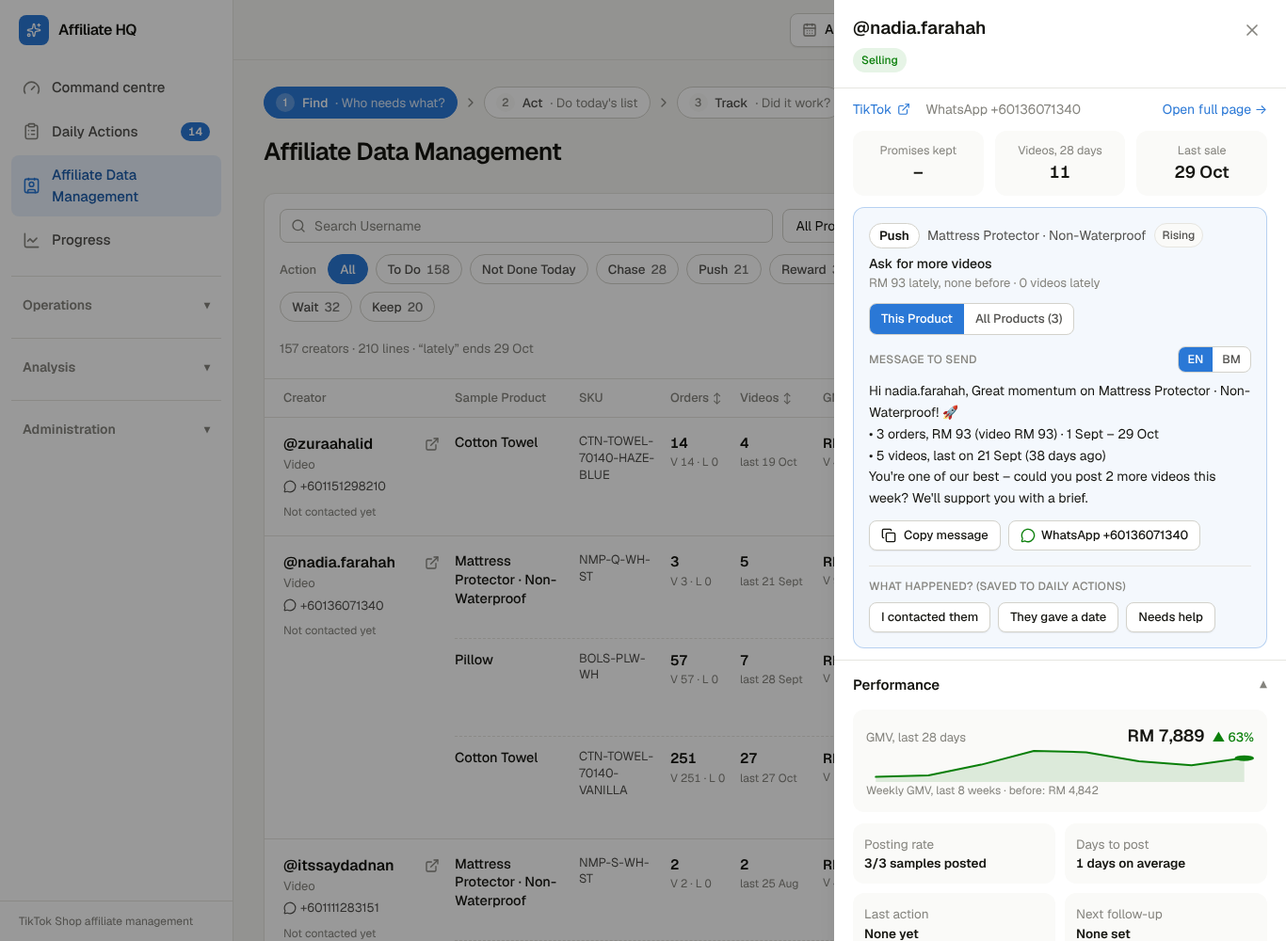
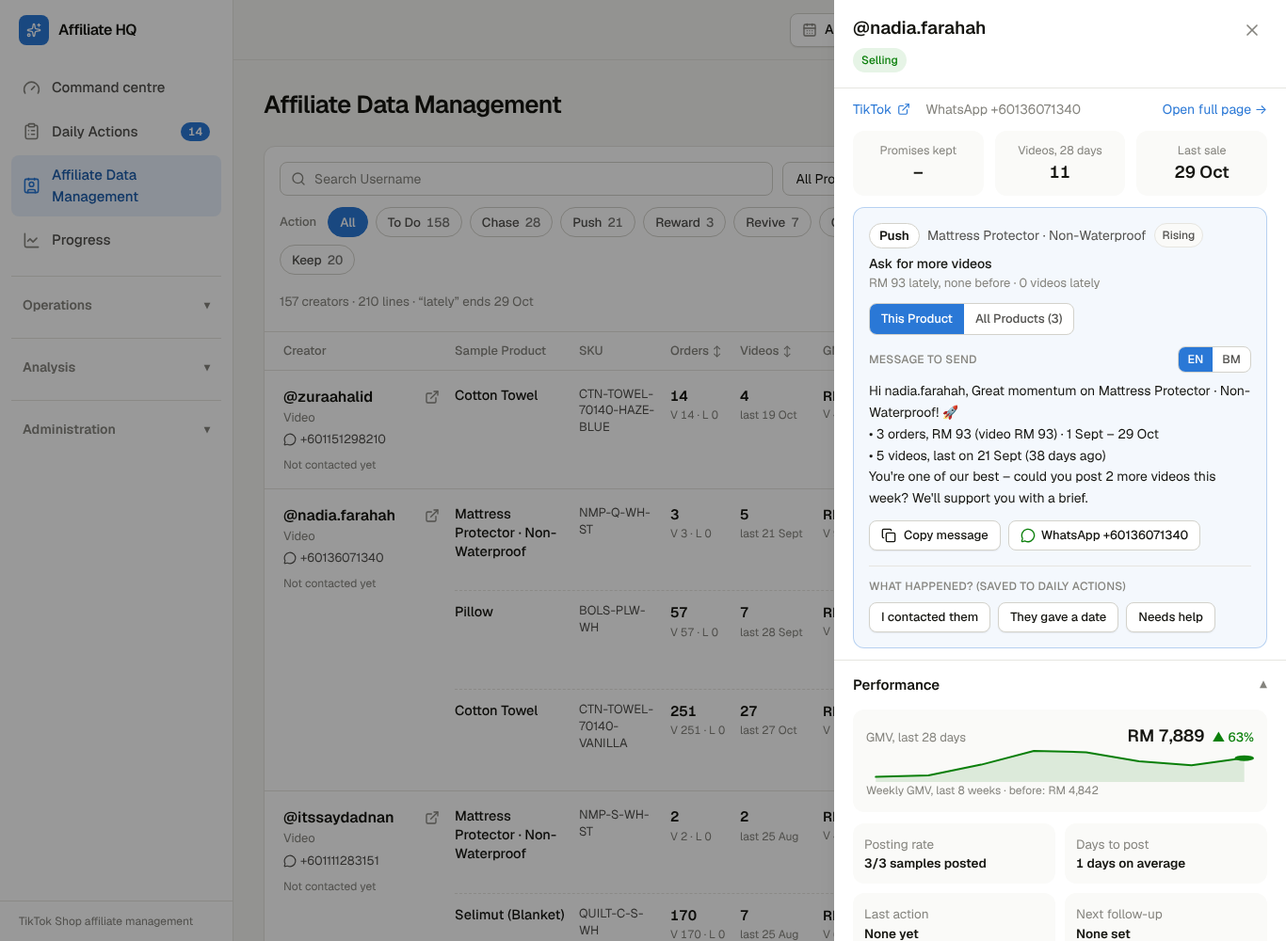
Revert "Work group flow: shared Find/Act/Track/Review step bar, Progress opens with three answers, Command centre is affiliate-only with a summary row, simpler Daily Actions row, Not Done Today filter"
This reverts commit 2cf0662c80a5490781ede31ba187d8ec81201f7c.

diff --git a/src/app/(app)/command/page.tsx b/src/app/(app)/command/page.tsx
@@ -8,44 +8,34 @@ import { Gauge } from "@/components/viz/gauge";
 import { Funnel } from "@/components/viz/funnel";
 import { Histogram } from "@/components/viz/histogram";
 import { Section } from "@/components/viz/section";
+import { StatTile } from "@/components/viz/stat-tile";
+import { Sparkline } from "@/components/viz/sparkline";
+import { ComboChart } from "@/components/viz/combo-chart";
+import { ForecastChart, type ForecastPoint } from "@/components/viz/forecast-chart";
 import { getAffiliateDirectory, STATUS_ORDER, ACTION_ORDER } from "@/lib/workflow/directory";
-import { Badge } from "@/components/ui/primitives";
-import { WorkHeader } from "@/components/work/work-header";
-import { rows } from "@/lib/analytics/sql";
-import { sql } from "drizzle-orm";
+import { Badge, PageHeader } from "@/components/ui/primitives";
 import { cn } from "@/lib/utils";
 
 export const metadata: Metadata = { title: "Command centre" };
 
 export default async function CommandPage() {
   await requireUser("admin");
-  const [d, dir, [doneRow]] = await Promise.all([
-    getCommand(),
-    getAffiliateDirectory({ samples: "with", page: 1, size: 1 }),
-    rows<{ n: number }>(sql`select count(*)::int as n from staff_events where reverted_at is null and kind in ('contacted', 'promised', 'needs_help') and (at at time zone 'Asia/Kuala_Lumpur')::date = (now() at time zone 'Asia/Kuala_Lumpur')::date`),
-  ]);
-  const atRisk = dir.statusCounts.Slipping + dir.statusCounts.Silent;
+  const [d, dir] = await Promise.all([getCommand(), getAffiliateDirectory({ samples: "with", page: 1, size: 1 })]);
   const rel = d.progress.relationships;
+  const o = d.orders;
   const gaugeTone = (v: number | null, good: number, ok: number) => (v == null ? "brand" : v >= good ? "good" : v >= ok ? "warn" : "critical") as "good" | "warn" | "critical" | "brand";
+  const cancelDelta = o.totals.cancelPct != null && o.previous.cancelPct ? ((o.totals.cancelPct - o.previous.cancelPct) / o.previous.cancelPct) * 100 : null;
+  const fc = d.demand.total.forecast;
+  const forecastData: ForecastPoint[] = [
+    ...d.demand.weeks.map((w, i) => ({ label: fmtDayLabel(w), actual: d.demand.total.weekly[i] })),
+    ...(fc ? fc.points.map((p, i) => ({ label: `+${i + 1}w`, forecast: Math.round(p.value), band: [Math.round(p.low), Math.round(p.high)] as [number, number] })) : []),
+  ];
+  if (fc && forecastData.length > fc.points.length) { const last = d.demand.weeks.length - 1; forecastData[last] = { ...forecastData[last], forecast: forecastData[last].actual }; }
+  const unusual = o.flags.slice(-3);
 
   return (
     <div className="space-y-6">
-      <WorkHeader current="review" title="Command centre" isOwner purpose={`${fmtDayLabel(d.today)} · The one-glance summary. Every number opens the screen behind it.`} />
-
-      <div className="grid grid-cols-2 gap-3 lg:grid-cols-4" aria-label="Summary">
-        {[
-          { label: "Lines to act on", n: dir.actionCounts.todo, hint: "open in the table", href: "/affiliates?action=todo", tone: "text-ink" },
-          { label: "Due & overdue", n: d.work.due, hint: "open Daily Actions", href: "/today?view=due", tone: d.work.due > 0 ? "text-critical" : "text-ink" },
-          { label: "Done today", n: doneRow?.n ?? 0, hint: "actions staff recorded", href: "/today?view=done", tone: "text-good" },
-          { label: "Silent or slipping", n: atRisk, hint: "creators losing momentum", href: "/affiliates?status=Slipping", tone: atRisk > 0 ? "text-warn" : "text-ink" },
-        ].map((t) => (
-          <Link key={t.label} href={t.href} className="rounded-xl border border-line bg-surface px-4 py-3 hover:bg-surface-2">
-            <p className="text-[13px] font-medium text-ink-3">{t.label}</p>
-            <p className={cn("tnum text-[28px] leading-tight font-semibold", t.tone)}>{t.n}</p>
-            <p className="text-[12.5px] text-ink-3">{t.hint}</p>
-          </Link>
-        ))}
-      </div>
+      <PageHeader title="Command centre" description={`${fmtDayLabel(d.today)} · everything that needs your attention, from the records`} />
 
       {/* data health */}
       <div className="flex flex-wrap gap-2.5" aria-label="Data freshness">
@@ -134,11 +124,36 @@ export default async function CommandPage() {
         </Section>
       </div>
 
-      <p className="flex flex-wrap items-center gap-x-4 gap-y-1 text-[14px] text-ink-3">
-        <span className="font-medium text-ink-2">Shop operations</span>
-        <Link href="/order-health" className="text-brand hover:underline">Order health</Link>
-        <Link href="/demand" className="text-brand hover:underline">Demand planning</Link>
-      </p>
+      {/* orders */}
+      <Section title="Order health" hint={o.start ? `${fmtDayLabel(o.start)} – ${fmtDayLabel(o.end!)} · orders per day with the cancellation rate` : "No shop orders loaded"} href="/order-health" linkLabel="Order health">
+        <div className="grid min-w-0 grid-cols-[minmax(0,1fr)] gap-5 lg:grid-cols-[minmax(0,1fr)_260px]">
+          <ComboChart data={o.days.map((x) => ({ label: fmtDayLabel(x.day), bars: x.orders, line: x.ratePct == null ? null : Math.round(x.ratePct * 10) / 10, flag: o.flags.some((f) => f.day === x.day) }))} barLabel="Orders" lineLabel="Cancelled %" height={240} />
+          <div className="grid grid-cols-2 gap-3 lg:grid-cols-1">
+            <StatTile label="Cancelled" value={o.totals.cancelPct == null ? "–" : `${o.totals.cancelPct.toFixed(1)}%`} delta={cancelDelta} goodWhenUp={false} sub={cancelDelta == null ? "of orders in this period" : "vs the 90 days before"} href="/order-health" />
+            <StatTile label="Returned / refunded" value={o.totals.returnPct == null ? "–" : `${o.totals.returnPct.toFixed(1)}%`} sub={`${o.totals.returned} orders`} href="/order-health" />
+          </div>
+        </div>
+        {unusual.length > 0 && (
+          <p className="mt-4 flex flex-wrap items-center gap-2 text-[14px] text-ink-2"><span className="font-medium text-ink">Unusual days:</span>{unusual.map((f) => <Badge key={f.day} tone="critical">{fmtDayLabel(f.day)} · {f.value.toFixed(0)}% cancelled (usually {f.expected.toFixed(0)}%)</Badge>)}</p>
+        )}
+      </Section>
+
+      {/* demand */}
+      <Section title="Demand outlook" hint="Units sold per week, with the next 4 weeks forecast" href="/demand" linkLabel="Demand planning">
+        {d.demand.weeks.length < 2 ? <p className="text-[14.5px] text-ink-3">{d.demand.note}</p> : (
+          <div className="grid min-w-0 grid-cols-[minmax(0,1fr)] gap-5 lg:grid-cols-[minmax(0,1fr)_300px]">
+            <ForecastChart data={forecastData} height={240} />
+            <div className="space-y-3">
+              <StatTile label="Needed next 4 weeks" value={d.demand.total.next4 == null ? "–" : `${d.demand.total.next4} units`} delta={d.demand.total.trendPct} sub={d.demand.total.next4 == null ? (d.demand.note ?? "Not enough history") : "all items, bundles broken into parts"} />
+              <ul className="space-y-2">
+                {d.demand.items.slice(0, 4).map((i) => (
+                  <li key={i.sku} className="flex items-center gap-3"><span className="min-w-0 flex-1 truncate text-[14px] text-ink" title={i.name}>{i.name}</span><span className="w-20"><Sparkline values={i.weekly} tone={i.trendPct != null && i.trendPct < -10 ? "critical" : "good"} /></span><span className="tnum w-12 text-right text-[13.5px] font-semibold">{i.sold4}</span></li>
+                ))}
+              </ul>
+            </div>
+          </div>
+        )}
+      </Section>
     </div>
   );
 }

diff --git a/src/app/(app)/progress/page.tsx b/src/app/(app)/progress/page.tsx
@@ -8,8 +8,7 @@ import { getActionResults } from "@/lib/workflow/results";
 import { RELATIONSHIP, type Relationship } from "@/lib/workflow/relationship";
 import { fmtDayLabel } from "@/lib/time";
 import { one, type SP } from "@/lib/url";
-import { Badge } from "@/components/ui/primitives";
-import { WorkHeader } from "@/components/work/work-header";
+import { Badge, PageHeader } from "@/components/ui/primitives";
 import { fmtRM, cn } from "@/lib/utils";
 
 export const metadata: Metadata = { title: "Progress" };
@@ -83,11 +82,9 @@ export default async function ProgressPage({ searchParams }: PageProps<"/progres
 
   return (
     <div className="space-y-6">
-      <WorkHeader
-        current="track"
+      <PageHeader
         title="Progress"
-        isOwner
-        purpose={`${fmtDayLabel(p.window.start)} – ${fmtDayLabel(p.window.end)} · ${days} days · Are staff working, did it help sales, and what needs you?`}
+        description={`${fmtDayLabel(p.window.start)} – ${fmtDayLabel(p.window.end)} · ${days} days · Malaysia time`}
         actions={
           <div role="group" aria-label="Period" className="inline-flex overflow-hidden rounded-lg border border-line-strong text-[14px] font-medium">
             {PROGRESS_RANGES.map((d) => (
@@ -97,28 +94,7 @@ export default async function ProgressPage({ searchParams }: PageProps<"/progres
         }
       />
 
-      <div className="grid gap-3 lg:grid-cols-3" data-testid="progress-answers" aria-label="Three answers">
-        <a href="#staff" className="rounded-xl border border-line bg-surface p-4 hover:bg-surface-2">
-          <p className="text-[13px] font-medium text-ink-3">1 · Are staff working?</p>
-          <p className="tnum mt-1 text-[28px] leading-tight font-semibold text-ink">{p.staff.byPerson.reduce((a, b) => a + b.contacts, 0)} <span className="text-[15px] font-normal text-ink-3">actions</span></p>
-          <p className="text-[13px] text-ink-3">{rate == null ? "No follow-ups judged yet" : `${rate}% of follow-ups on time`} · {p.staff.byPerson.length} {p.staff.byPerson.length === 1 ? "person" : "people"}</p>
-        </a>
-        <a href="#results" className="rounded-xl border border-line bg-surface p-4 hover:bg-surface-2">
-          <p className="text-[13px] font-medium text-ink-3">2 · Did it help sales?</p>
-          {res.measured === 0 ? (
-            <><p className="mt-1 text-[20px] leading-tight font-semibold text-ink">Not measured yet</p><p className="text-[13px] text-ink-3">Needs 28 days after first contact{res.waiting > 0 ? ` · ${res.waiting} waiting` : ""}</p></>
-          ) : (
-            <><p className={cn("tnum mt-1 text-[28px] leading-tight font-semibold", resChange != null && resChange < 0 ? "text-critical" : "text-good")}>{resChange == null ? "–" : `${resChange >= 0 ? "▲" : "▼"} ${Math.abs(resChange)}%`}</p><p className="text-[13px] text-ink-3">GMV after vs before · {res.posted} of {res.measured} posted</p></>
-          )}
-        </a>
-        <a href="#decisions" className="rounded-xl border border-line bg-surface p-4 hover:bg-surface-2">
-          <p className="text-[13px] font-medium text-ink-3">3 · What needs me?</p>
-          <p className={cn("tnum mt-1 text-[28px] leading-tight font-semibold", decisions.length > 0 ? "text-warn" : "text-ink")}>{decisions.reduce((a, d) => a + d.count, 0)} <span className="text-[15px] font-normal text-ink-3">to decide</span></p>
-          <p className="text-[13px] text-ink-3">{decisions.length === 0 ? "Nothing right now" : `${decisions.length} kind${decisions.length === 1 ? "" : "s"} of decision`}</p>
-        </a>
-      </div>
-
-      <div id="decisions" className="scroll-mt-24" /><Frame title="Needs your decision" tag="Unresolved exceptions" accent="border-l-warn">
+      <Frame title="Needs your decision" tag="Unresolved exceptions" accent="border-l-warn">
         {decisions.length === 0 ? (
           <p className="text-[14.5px] text-ink-2">Nothing needs a decision right now.</p>
         ) : (
@@ -136,7 +112,7 @@ export default async function ProgressPage({ searchParams }: PageProps<"/progres
         )}
       </Frame>
 
-      <div id="staff" className="scroll-mt-24" /><Frame title="Staff performance" tag="Who did what – staff-confirmed" accent="border-l-brand">
+      <Frame title="Staff performance" tag="Who did what – staff-confirmed" accent="border-l-brand">
         {p.staff.byPerson.length === 0 ? (
           <p className="text-[14.5px] text-ink-2" data-testid="staff-performance">No staff actions recorded in this period yet.</p>
         ) : (
@@ -150,7 +126,7 @@ export default async function ProgressPage({ searchParams }: PageProps<"/progres
         <p className="text-[13px] text-ink-3">Opening WhatsApp or copying a message is never counted – only the buttons staff press. “Posted after” counts creators with a video in the 28 days after their first contact.</p>
       </Frame>
 
-      <div id="results" className="scroll-mt-24" /><Frame title="Results after action" tag="Sales 28 days after first contact, against the 28 days before – context, not proof" accent="border-l-good">
+      <Frame title="Results after action" tag="Sales 28 days after first contact, against the 28 days before – context, not proof" accent="border-l-good">
         {res.measured === 0 ? (
           <p className="text-[14.5px] text-ink-2" data-testid="results-empty">Not enough history yet. A creator is measured once 28 days have passed since staff first contacted them{res.waiting > 0 ? ` (${res.waiting} contacted too recently)` : ""}. Keep recording actions and this fills in.</p>
         ) : (

diff --git a/src/components/today/today-list.tsx b/src/components/today/today-list.tsx
@@ -187,13 +187,12 @@ function Row({
 
   return (
     <article className="rounded-xl border border-line bg-surface" data-testid={`today-${it.username}`}>
-      <div className="grid items-center gap-x-4 gap-y-3 px-4 py-3.5 md:grid-cols-[minmax(170px,1.1fr)_minmax(220px,2fr)_auto_auto]">
+      <div className="grid items-center gap-x-4 gap-y-3 px-4 py-3.5 md:grid-cols-[minmax(170px,1.1fr)_minmax(220px,2fr)_auto_auto_auto]">
         {/* creator */}
         <div className="flex min-w-0 items-center gap-3">
           {canAct && !it.held ? <input type="checkbox" aria-label={`Select ${it.username}`} checked={selected} onChange={onToggle} className="size-4 shrink-0" /> : <span className="w-4 shrink-0" />}
           <div className="min-w-0">
             <button type="button" onClick={() => panelApi.open(it.username)} className="block max-w-full truncate text-left text-[16px] font-semibold text-ink hover:underline" title="Open details">@{it.username}</button>
-            <a href={`/affiliates?samples=all&q=${encodeURIComponent(it.username)}`} className="text-[12.5px] text-brand hover:underline" data-testid="open-in-table">Open in table →</a>
             <p className="flex items-center gap-1.5 text-[13.5px] text-ink-3" title={it.relationship.hint}><span className={cn("size-2 rounded-full", DOT[it.relationship.tone])} />{it.relationship.label}</p>
             {(it.creatorType || it.gmvLabel) && <p className="text-[12.5px] text-ink-3">{[it.creatorType, it.gmvLabel && `${it.gmvLabel} total`].filter(Boolean).join(" · ")}</p>}
           </div>
@@ -219,10 +218,12 @@ function Row({
           {it.lastAction && <p className="mt-0.5 text-[13px] text-ink-3" data-testid="last-action">Last action: {it.lastAction}</p>}
           {it.suggestPause && <p className="mt-1 text-[13.5px] font-medium text-warn">Review or pause? {it.attempts} recorded contacts, no promise or new content.</p>}
         </div>
-        {/* when + progress */}
-        <div className="flex flex-col gap-1 md:w-36 md:items-end md:text-right">
-          {it.deadline && <Badge tone={it.deadline.tone === "critical" ? "critical" : it.deadline.tone === "warn" ? "serious" : "neutral"}>{it.deadline.label}</Badge>}
-          {focusO && <span className={cn("tnum text-[13px]", focusO.lateDays != null ? "font-semibold text-critical" : "text-ink-3")} title={`${focusO.label}: ${focusO.done} of ${focusO.needed} pieces`}>{focusO.done}/{focusO.needed} posted{it.obligations.length > 1 ? ` · +${it.obligations.length - 1} more` : ""}</span>}
+        {/* deadline */}
+        <div className="md:w-32 md:text-right">{it.deadline && <Badge tone={it.deadline.tone === "critical" ? "critical" : it.deadline.tone === "warn" ? "serious" : "neutral"}>{it.deadline.label}</Badge>}</div>
+        {/* completion */}
+        <div className="tnum text-[14px] md:w-14 md:text-center" title={focusO ? `${focusO.label}: ${focusO.done} of ${focusO.needed} pieces` : undefined}>
+          {focusO ? <span className={cn("font-semibold", focusO.lateDays != null ? "text-critical" : "text-ink")}>{focusO.done}/{focusO.needed}</span> : <span className="text-ink-3">–</span>}
+          {it.obligations.length > 1 && <span className="block text-[12px] font-normal text-ink-3">+{it.obligations.length - 1} more</span>}
         </div>
         {/* controls */}
         {canAct && (

diff --git a/src/app/(app)/affiliates/page.tsx b/src/app/(app)/affiliates/page.tsx
@@ -2,14 +2,13 @@ import type { Metadata } from "next";
 import { Fragment } from "react";
 import Link from "next/link";
 import { ExternalLink, MessageCircle } from "lucide-react";
-import { can, requireUser } from "@/lib/auth";
-import { WorkHeader } from "@/components/work/work-header";
+import { requireUser } from "@/lib/auth";
 import { ACTION_ORDER, getAffiliateDirectory, STATUS_ORDER, type DirLine, type DirRow } from "@/lib/workflow/directory";
 import { parseDirectoryParams } from "@/lib/workflow/directory-params";
 import { ACTION_HELP, STATUS_HELP, type CreatorStatus } from "@/lib/affiliates/status";
 import { fmtDayLabel } from "@/lib/time";
 import { href, one, type SP } from "@/lib/url";
-import { Badge, buttonClasses, Card, EmptyState } from "@/components/ui/primitives";
+import { Badge, buttonClasses, Card, EmptyState, PageHeader } from "@/components/ui/primitives";
 import { sampleRange } from "@/lib/samples/range";
 import { statsOf } from "@/lib/affiliates/action-messages";
 import { Pagination } from "@/components/ui/pagination";
@@ -81,7 +80,7 @@ function CreatorBlock({ r }: { r: DirRow }) {
 }
 
 export default async function AffiliatesPage({ searchParams }: PageProps<"/affiliates">) {
-  const user = await requireUser();
+  await requireUser();
   const sp = (await searchParams) as SP;
   const raw = Object.fromEntries(Object.entries(sp).map(([k, v]) => [k, one(v)]));
   const opts = parseDirectoryParams(raw);
@@ -97,12 +96,12 @@ export default async function AffiliatesPage({ searchParams }: PageProps<"/affil
   const statsAll = (r: DirRow) => r.allLines.filter((l) => !l.noSample).map(statsOf);
   const page = opts.page ?? 1;
   const pages = Math.max(1, Math.ceil(dir.total / SIZE));
-  const values = { q: opts.q ?? "", samples: opts.samples ?? "with", product: opts.product ?? "", status: opts.status ?? "", action: opts.action ?? "", type: opts.type ?? "", wa: opts.wa ?? "", contact: opts.contact ?? "", done: opts.done ?? "", sort: opts.sort ?? "gmv" };
+  const values = { q: opts.q ?? "", samples: opts.samples ?? "with", product: opts.product ?? "", status: opts.status ?? "", action: opts.action ?? "", type: opts.type ?? "", wa: opts.wa ?? "", contact: opts.contact ?? "", sort: opts.sort ?? "gmv" };
   const pageFilters = Object.fromEntries(Object.entries(values).map(([k, v]) => [k, (k === "samples" && v === "with") || (k === "sort" && v === "gmv") ? undefined : v || undefined]));
 
   return (
     <div className="space-y-6">
-      <WorkHeader current="find" title="Affiliate Data Management" isOwner={can(user, "admin")} actions={<Link href="/affiliates/analysis" className={buttonClasses({ variant: "secondary" })}>Detailed Analysis</Link>} />
+      <PageHeader title="Affiliate Data Management" actions={<Link href="/affiliates/analysis" className={buttonClasses({ variant: "secondary" })}>Detailed Analysis</Link>} />
       <Card>
         <DirectoryFilters
           values={values}

diff --git a/src/components/affiliates/directory-filters.tsx b/src/components/affiliates/directory-filters.tsx
@@ -8,7 +8,7 @@ import { cn } from "@/lib/utils";
 import { href } from "@/lib/url";
 import { ACTION_HINT, type CreatorAction, type CreatorStatus } from "@/lib/affiliates/status";
 
-export type DirFilterValues = { q: string; samples: string; product: string; status: string; action: string; type: string; wa: string; contact: string; done: string; sort: string };
+export type DirFilterValues = { q: string; samples: string; product: string; status: string; action: string; type: string; wa: string; contact: string; sort: string };
 type Props = {
   values: DirFilterValues;
   products: { pid: string; name: string; creators: number }[];
@@ -99,7 +99,6 @@ export function DirectoryFilters({ values, products, actions, todo, statuses, sh
         <button type="button" className={chip(values.action === "todo")} aria-pressed={values.action === "todo"} onClick={() => go({ action: "todo" })} title="Product lines that need you to do something (Daily Actions counts creators, so its number is smaller)">
           To Do <span className="tnum opacity-80">{todo}</span>
         </button>
-        <button type="button" className={chip(values.done === "no")} aria-pressed={values.done === "no"} onClick={() => go({ done: values.done === "no" ? "" : "no" })} title="Hide product lines whose action was already recorded today">Not Done Today</button>
         {actions.filter((a) => a.count > 0 || values.action === a.key).map((a) => (
           <button key={a.key} type="button" className={chip(values.action === a.key)} aria-pressed={values.action === a.key} onClick={() => go({ action: values.action === a.key ? "" : a.key })} title={ACTION_HINT[a.key]}>
             {a.key} <span className="tnum opacity-80">{a.count}</span>

diff --git a/src/app/(app)/today/page.tsx b/src/app/(app)/today/page.tsx
@@ -5,9 +5,8 @@ import { can, mayEditContacts, requireUser } from "@/lib/auth";
 import { getToday, type TodayRow, type TodayView } from "@/lib/workflow/today";
 import { fmtDateTimeKL, fmtDayLabel } from "@/lib/time";
 import { one, type SP } from "@/lib/url";
-import { WorkHeader } from "@/components/work/work-header";
 import { Pagination } from "@/components/ui/pagination";
-import { Card, EmptyState } from "@/components/ui/primitives";
+import { Card, EmptyState, PageHeader } from "@/components/ui/primitives";
 import { AddCreator } from "@/components/today/add-creator";
 import { TodayList, type TodayItem } from "@/components/today/today-list";
 import { cn } from "@/lib/utils";
@@ -101,11 +100,9 @@ export default async function TodayPage({ searchParams }: PageProps<"/today">) {
 
   return (
     <div className="space-y-6">
-      <WorkHeader
-        current="act"
+      <PageHeader
         title="Daily Actions"
-        isOwner={can(user, "admin")}
-        purpose={`${fmtDayLabel(data.today)} · Message each creator, then record what happened. The list comes from Affiliate Data Management.`}
+        description={`${fmtDayLabel(data.today)} · Malaysia time`}
         actions={canAct ? <div className="flex flex-wrap items-start gap-2"><AddCreator canPhone={mayEditContacts(user)} /></div> : undefined}
       />
       <div className="grid grid-cols-2 gap-3 lg:grid-cols-4" aria-label="Today at a glance">

diff --git a/src/lib/workflow/directory.ts b/src/lib/workflow/directory.ts
@@ -60,8 +60,6 @@ export type DirOpts = {
   type?: "video" | "live" | "both" | "";
   wa?: "yes" | "no" | "";
   contact?: "never" | "recent" | "overdue" | "";
-  /** "no" = only lines whose action has not been recorded today. */
-  done?: "no" | "";
   sort?: DirSort;
   /** Period shown in the table's orders, GMV and videos (status always uses the latest 28 days). */
   range?: { start: string; end: string };
@@ -236,7 +234,6 @@ export async function getAffiliateDirectory(opts: DirOpts): Promise<Directory> {
       (opts.contact === "never" ? !a.lastContactedOn : opts.contact === "recent" ? !!a.lastContactedOn && a.lastContactedOn >= weekAgo : a.overdue));
   const lineOk = (l: DirLine, skip?: "status" | "action") =>
     (!opts.product || l.pid === opts.product) &&
-    (opts.done !== "no" || l.doneOn !== today) &&
     (skip === "status" || !opts.status || l.status === opts.status) &&
     (skip === "action" || !opts.action || (opts.action === "todo" ? NEEDS_ACTION.includes(l.action) : l.action === opts.action));
 

diff --git a/scripts/test-regressions.ts b/scripts/test-regressions.ts
@@ -609,8 +609,6 @@ async function main() {
   const pnl = await getCreatorPanel(cM, true);
   check("25c the creator panel has a Performance block: 8 weekly points, 28-day change, posting rate, last action, follow-up", pnl.performance.weeks.length === 8 && pnl.performance.gmv28 + pnl.performance.prev28 > 0 && !!pnl.performance.lastAction && /^Contacted/.test(pnl.performance.lastAction.text) && pnl.performance.contacts >= 1, JSON.stringify(pnl.performance));
 
-  const notDone = (await D({ q: cM, samples: "with", done: "no" })).rows.find((r) => r.username === cM);
-  check("27a 'Not Done Today' hides the product line whose action was recorded today and keeps the others", !notDone || !notDone.lines.some((l) => l.pid === P1));
   const cR = "zz_test_results";
   await mkCreators([cR]);
   await imp("affiliate_orders", AFF, [

diff --git a/src/lib/workflow/directory-params.ts b/src/lib/workflow/directory-params.ts
@@ -31,7 +31,6 @@ export function parseDirectoryParams(sp: Record<string, string | undefined>): Di
     type: pick(sp.type, ["video", "live", "both"] as const),
     wa: pick(sp.wa, ["yes", "no"] as const),
     contact: pick(sp.contact, ["never", "recent", "overdue"] as const),
-    done: sp.done === "no" ? "no" : "",
     sort: (SORTS.find((s) => s.key === sp.sort)?.key ?? "gmv") as DirSort,
     page: Math.max(1, Number(sp.page) || 1),
   };

diff --git a/docs/STAFF-GUIDE.md b/docs/STAFF-GUIDE.md
@@ -1,6 +1,6 @@
 # Staff guide – the daily routine
 
-The four Work screens follow one flow, shown as a step bar at the top of each: **1 Find** (Affiliate Data Management) → **2 Act** (Daily Actions) → **3 Track** (Progress, owner) → **4 Review** (Command centre, owner). Every number on the later screens opens the earlier screen already filtered, and every Daily Actions row has **Open in table**. Open **Daily Actions** (formerly Today's Work). Each row answers four things: **who** (name and relationship), **why now** (coloured chips and one line of evidence),
+Open **Daily Actions** (formerly Today's Work). Each row answers four things: **who** (name and relationship), **why now** (coloured chips and one line of evidence),
 **what to do** (the buttons) and **by when** (the deadline chip on the right). Open **Details** for the full reasons, sample timeline, last actions and the message.
 
 | Tab | What is in it |
